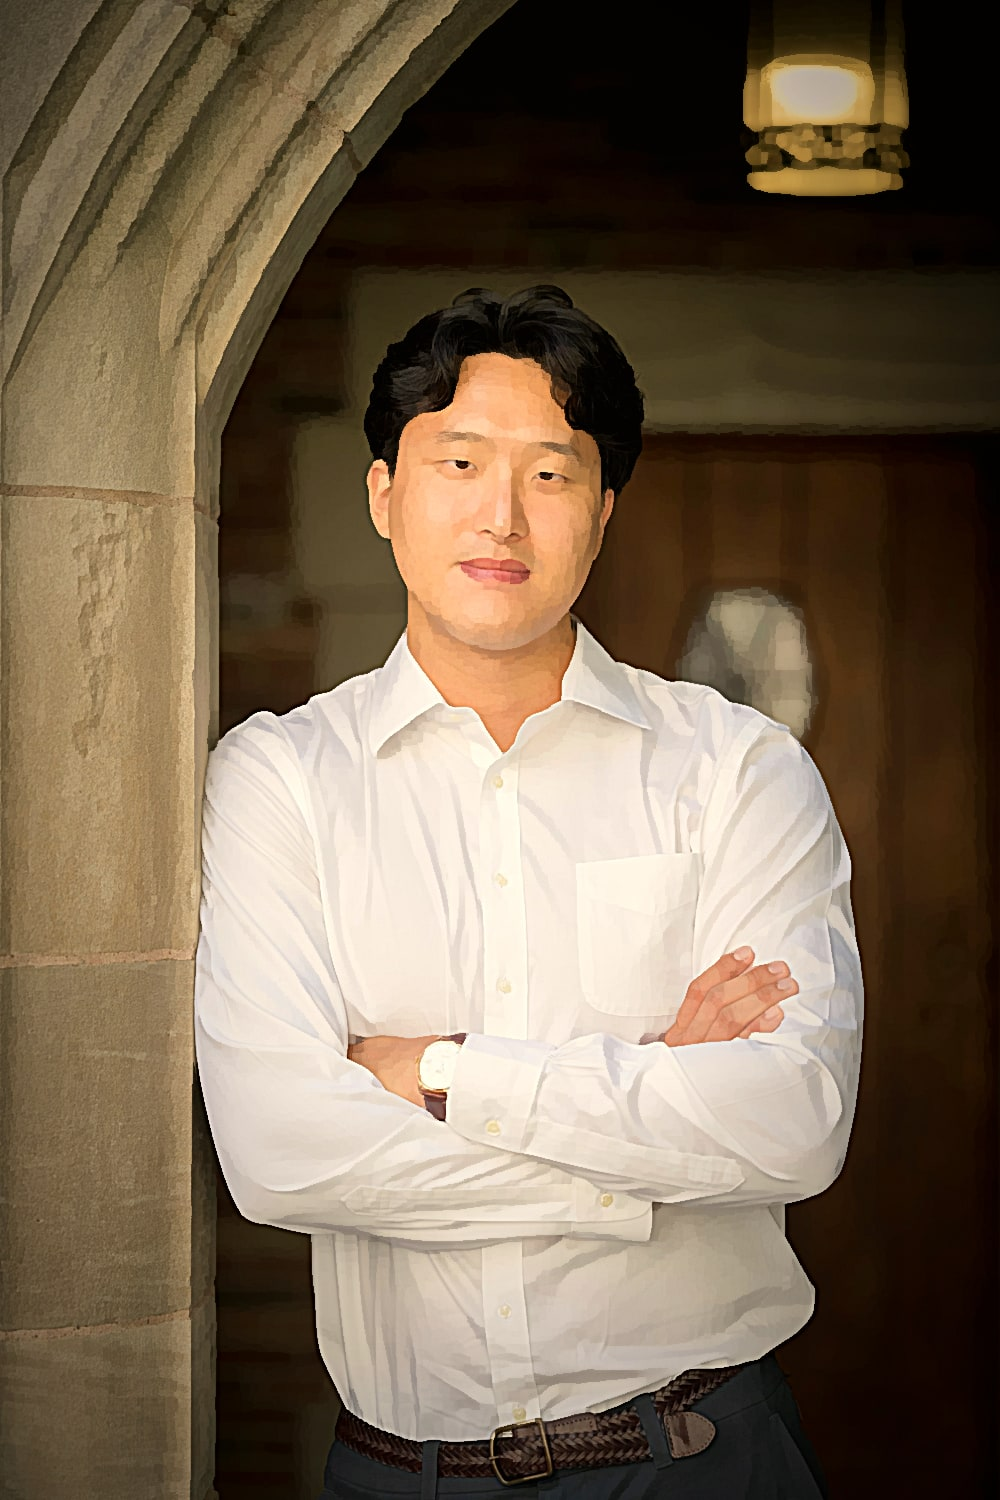
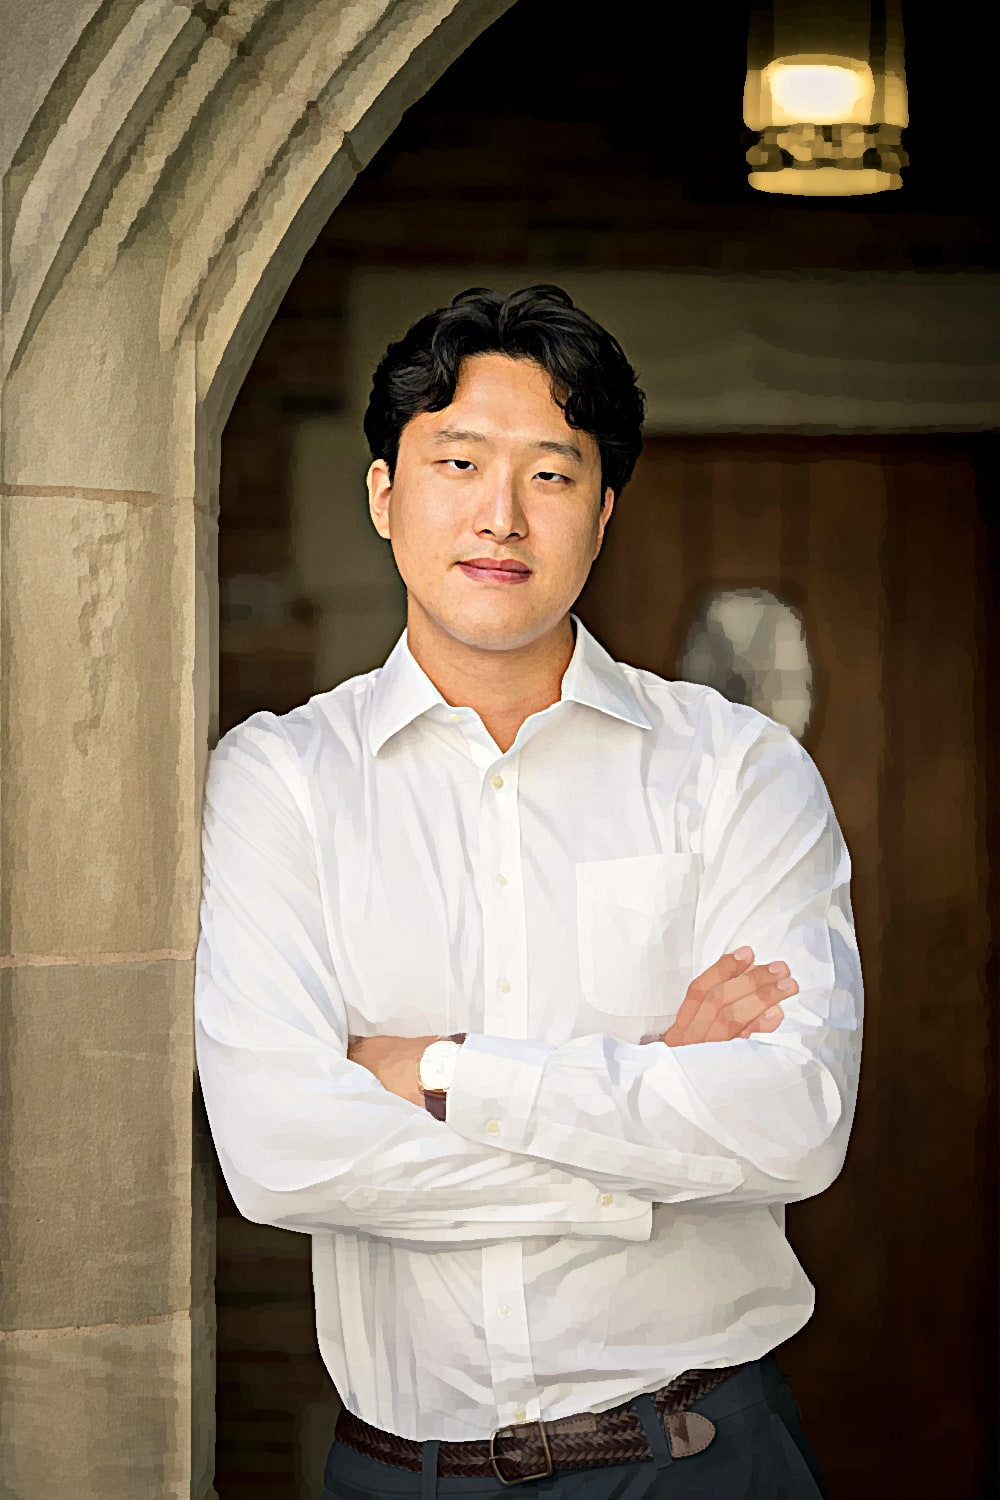
Soften painted portrait, keep face faithful; artsy offset layout with unveil

diff --git a/src/app/about/page.tsx b/src/app/about/page.tsx
@@ -9,31 +9,37 @@ export const metadata: Metadata = {
 export default function About() {
   return (
     <div className="wrap pt-16 md:pt-28">
-      <h1 className="display text-title">About</h1>
+      <div className="grid gap-16 md:grid-cols-12 md:gap-8">
+        {/* Text hangs from the top and sits at the bottom of the portrait's height */}
+        <div className="flex flex-col justify-between gap-16 md:col-span-6">
+          <h1 className="display text-title">About</h1>
 
-      <div className="mt-16 grid gap-16 md:mt-24 md:grid-cols-12 md:gap-8">
-        <div className="md:col-span-7">
-          <p className="display text-[length:var(--text-hero)]">Frolicking through life.</p>
+          <div>
+            <p className="display text-[length:var(--text-hero)]">Frolicking through life.</p>
 
-          <dl className="ruled ruled-last mt-16 grid max-w-xl grid-cols-3 gap-4 py-6 md:mt-24">
-            <dt className="label pt-1">Currently</dt>
-            <dd className="col-span-2">
-              New Haven &amp; New York.
-              <br />
-              Building something new.
-            </dd>
-          </dl>
+            <dl className="ruled ruled-last mt-12 grid max-w-md grid-cols-3 gap-4 py-6 md:mt-16">
+              <dt className="label pt-1">Currently</dt>
+              <dd className="col-span-2">
+                New Haven &amp; New York.
+                <br />
+                Building something new.
+              </dd>
+            </dl>
+          </div>
         </div>
 
-        <div className="md:col-span-4 md:col-start-9">
-          <ImageFrame
-            src="/about/portrait-painted.jpg"
-            alt="Painted portrait of Frank Kim leaning against a stone archway with arms crossed"
-            ratio="2 / 3"
-            priority
-            sizes="(min-width: 768px) 30vw, 100vw"
-          />
-        </div>
+        {/* Portrait is dropped lower than the heading, with an offset outline */}
+        <figure className="portrait mr-3.5 md:col-span-5 md:col-start-8 md:mt-24 md:mr-0">
+          <div className="unveil">
+            <ImageFrame
+              src="/about/portrait-painted.jpg"
+              alt="Painted portrait of Frank Kim leaning against a stone archway with arms crossed"
+              ratio="2 / 3"
+              priority
+              sizes="(min-width: 768px) 38vw, 90vw"
+            />
+          </div>
+        </figure>
       </div>
     </div>
   );

diff --git a/src/app/globals.css b/src/app/globals.css
@@ -140,3 +140,28 @@ body {
 @media (prefers-reduced-motion: reduce) {
   .page-enter { animation: none; }
 }
+
+/* About portrait: an offset outline behind the picture (like a gallery mount)
+   and a slow unveil when the page loads. */
+.portrait { position: relative; }
+.portrait::before {
+  content: "";
+  position: absolute;
+  inset: 0;
+  transform: translate(14px, 14px);
+  border: 1px solid color-mix(in srgb, var(--ink) 35%, transparent);
+  pointer-events: none;
+}
+@keyframes unveil {
+  from { clip-path: inset(100% 0 0 0); }
+  to { clip-path: inset(0 0 0 0); }
+}
+@keyframes settle {
+  from { transform: scale(1.08); }
+  to { transform: scale(1); }
+}
+.unveil { animation: unveil 1.4s cubic-bezier(0.2, 0.7, 0.2, 1) 0.2s both; }
+.unveil img { animation: settle 2s cubic-bezier(0.2, 0.7, 0.2, 1) 0.2s both; }
+@media (prefers-reduced-motion: reduce) {
+  .unveil, .unveil img { animation: none; }
+}
